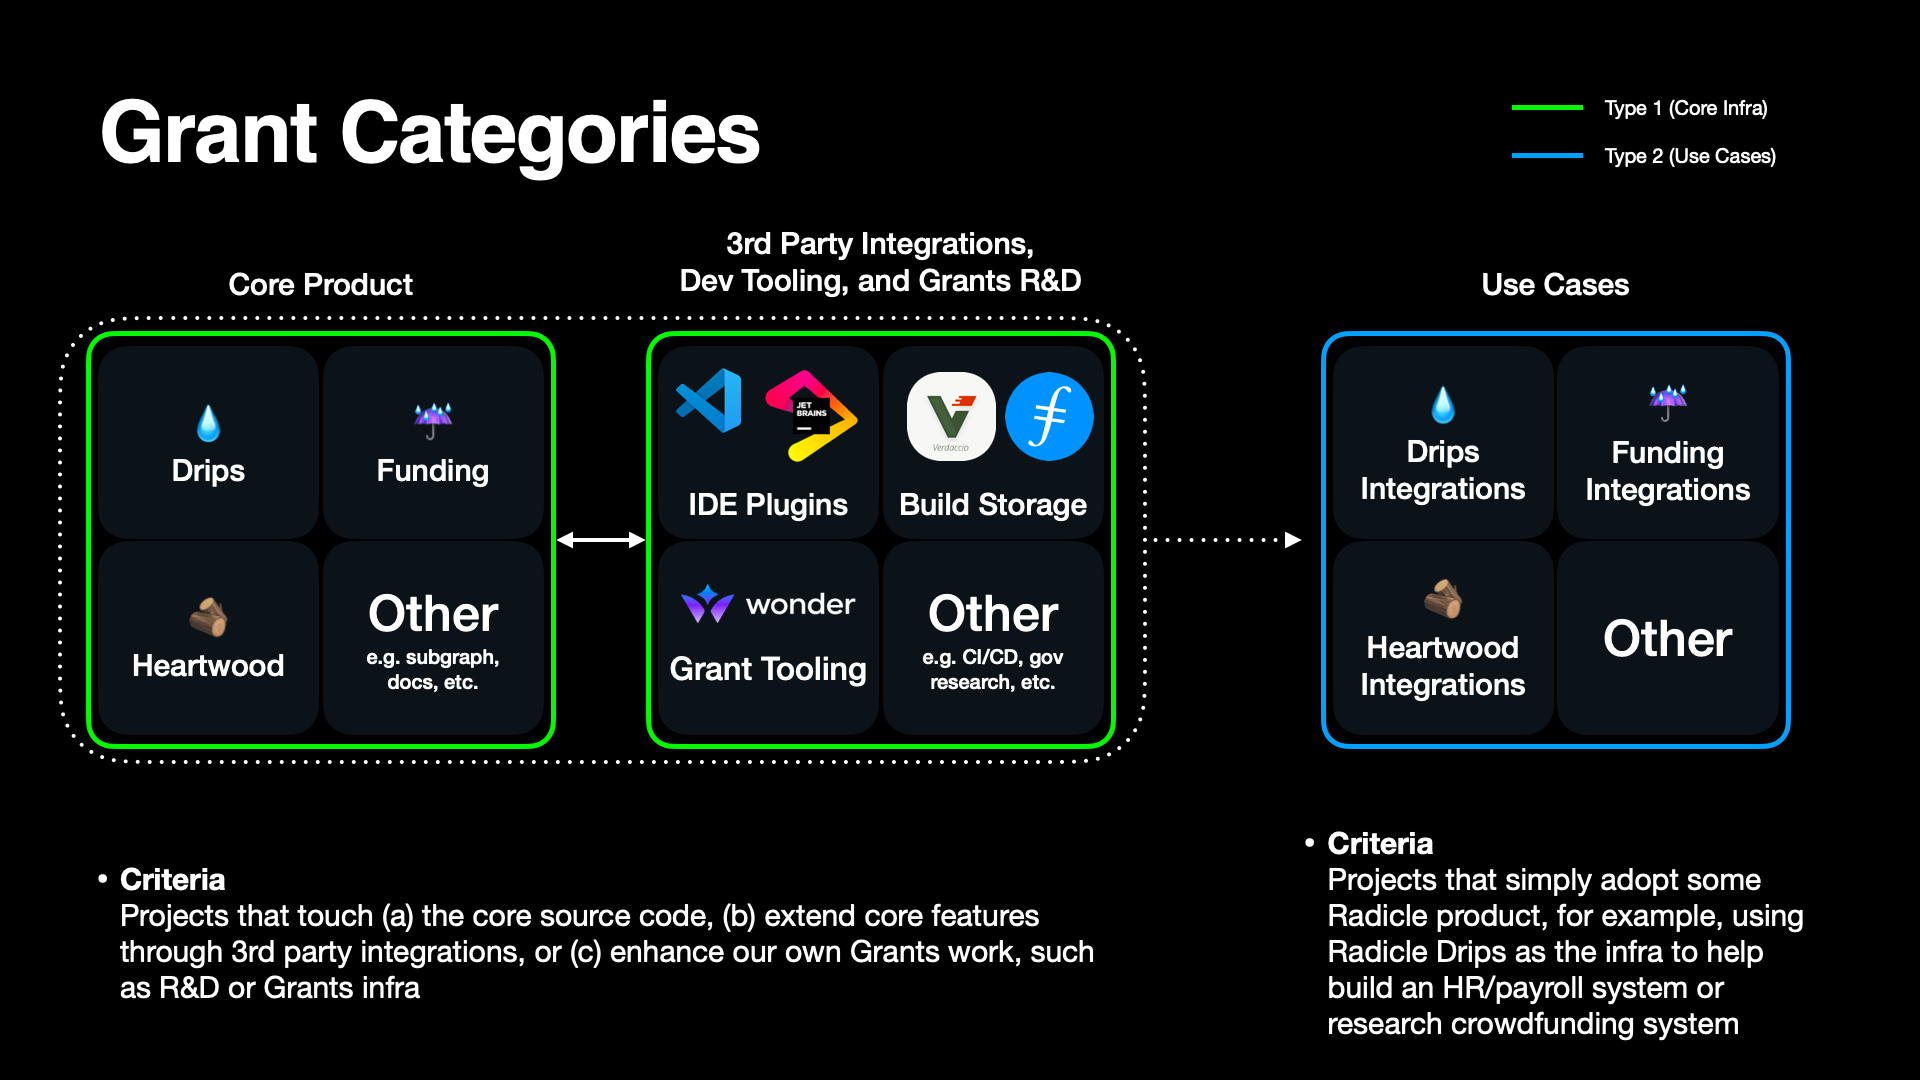
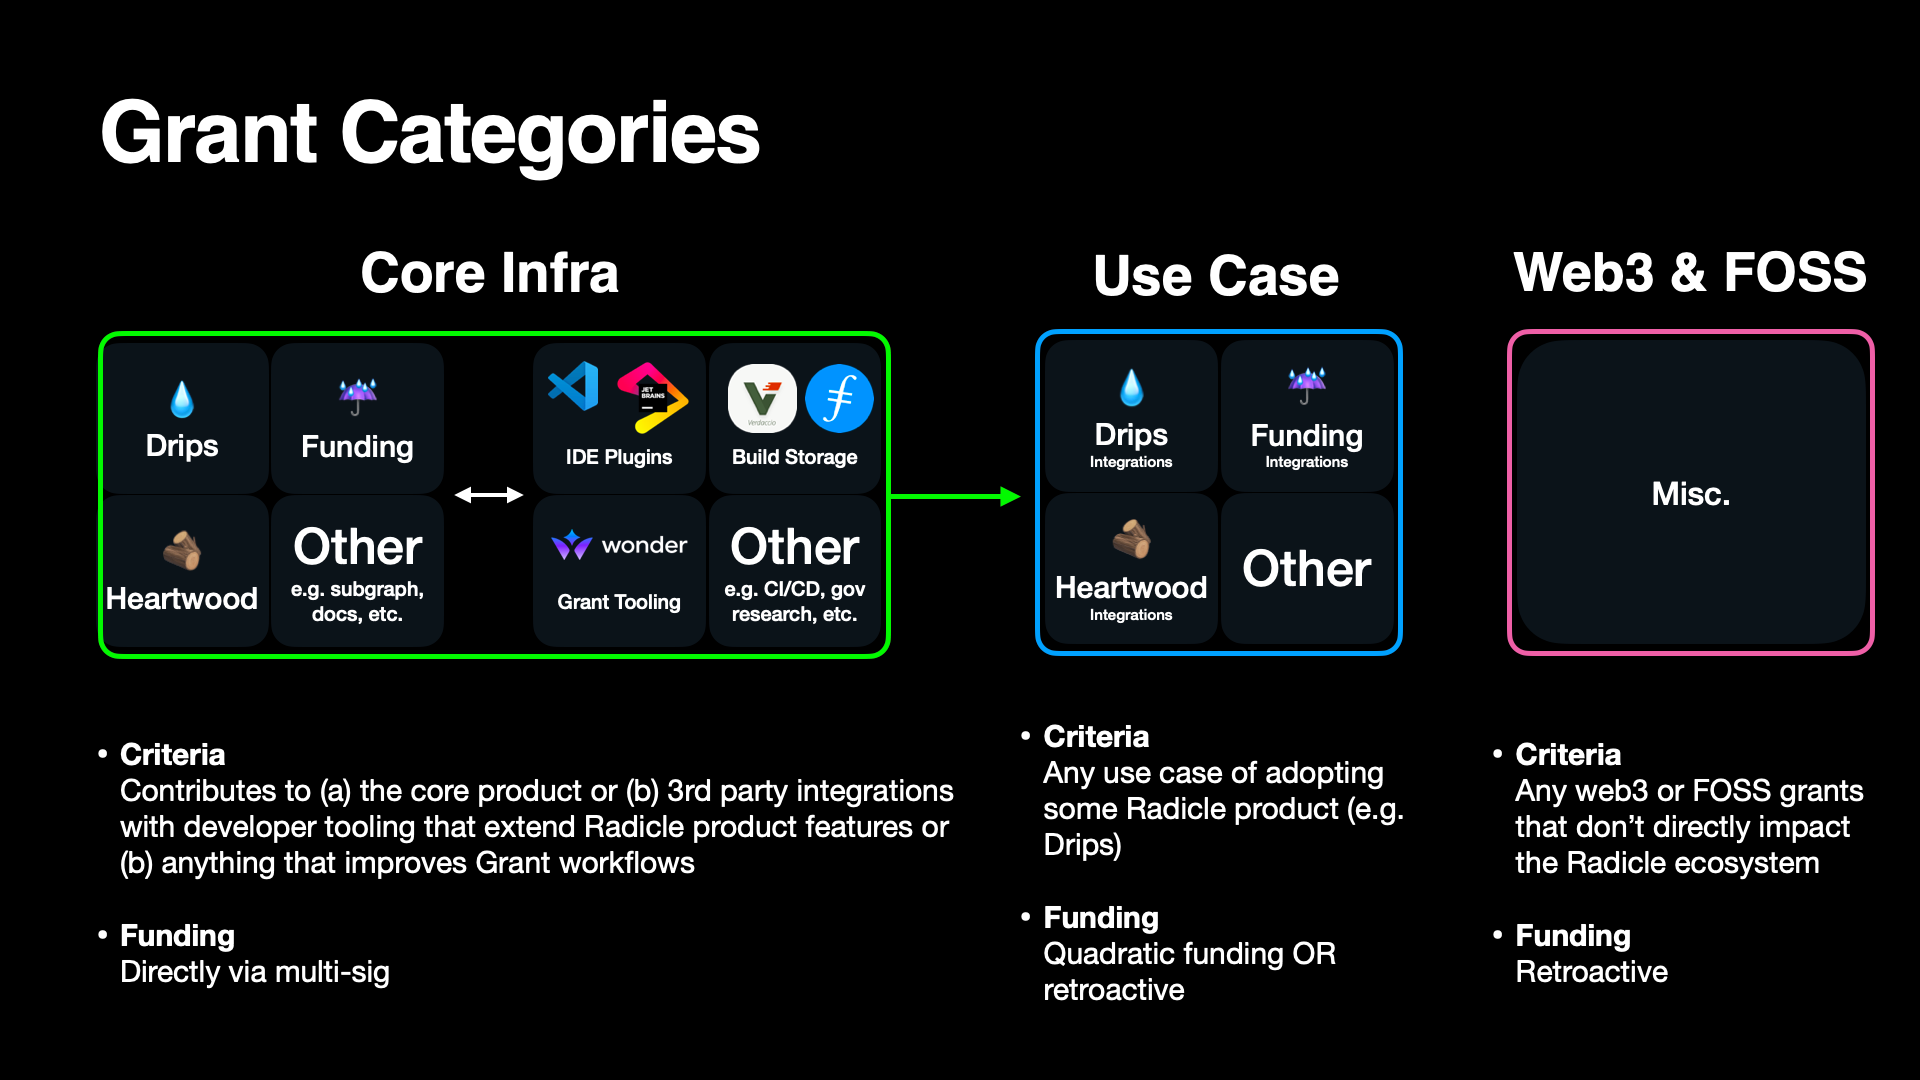
added more notes for grant categories

diff --git a/README.md b/README.md
@@ -137,11 +137,29 @@ Projects that touch (a) the core source code, (b) extend core features through 3
 
 For example, building plug-ins for popular IDEs like JetBrains that utilize the Radicle CLI.
 
+Previous example(s):
+* 3rd Party Integration: [IDE - Jetbrains Plugin #1](https://radicle.community/t/application-radicle-jetbrains-ide-plugin-implementation-phase-1/2887)
+* 3rd Party Integration: [IDE - VSCode Plugin #1](https://radicle.community/t/application-radicle-vs-code-extension-implementation-phase-1/3099)
+* 3rd Party Integration: [Package Management - Research](https://radicle.community/t/grant-application-package-manager/3122/10)
+* Governance Research: [DAO Governance - Research](https://radicle.community/t/application-radicledao-governance-design-apiary/3126/11)
+
 ### 2. Radicle Adoptions
 Projects that adopt some Radicle product feature, such as the Drips SDK.
 
 For example, using Radicle Drips as the infrastructure to help build an HR/payroll system or research crowdfunding 
 system.
+
+Previous example(s):
+* TBD
+
+### 3. Web3 & FOSS
+Projects that tackle important problems in the Web3 and/or FOSS, but that don't necessarily have to do with Radicle.
+
+> Note: we will generally be quite selective as the budget is limited on these. They should be addressing a general 
+> problem. It is less likely that we will fund niche projects that have limited scope or impact.
+
+Previous example(s):
+* [DAO Standards - Research](https://radicle.community/t/grant-application-daostar-one/2753)
 
 ## Alt Funding Sources
 
